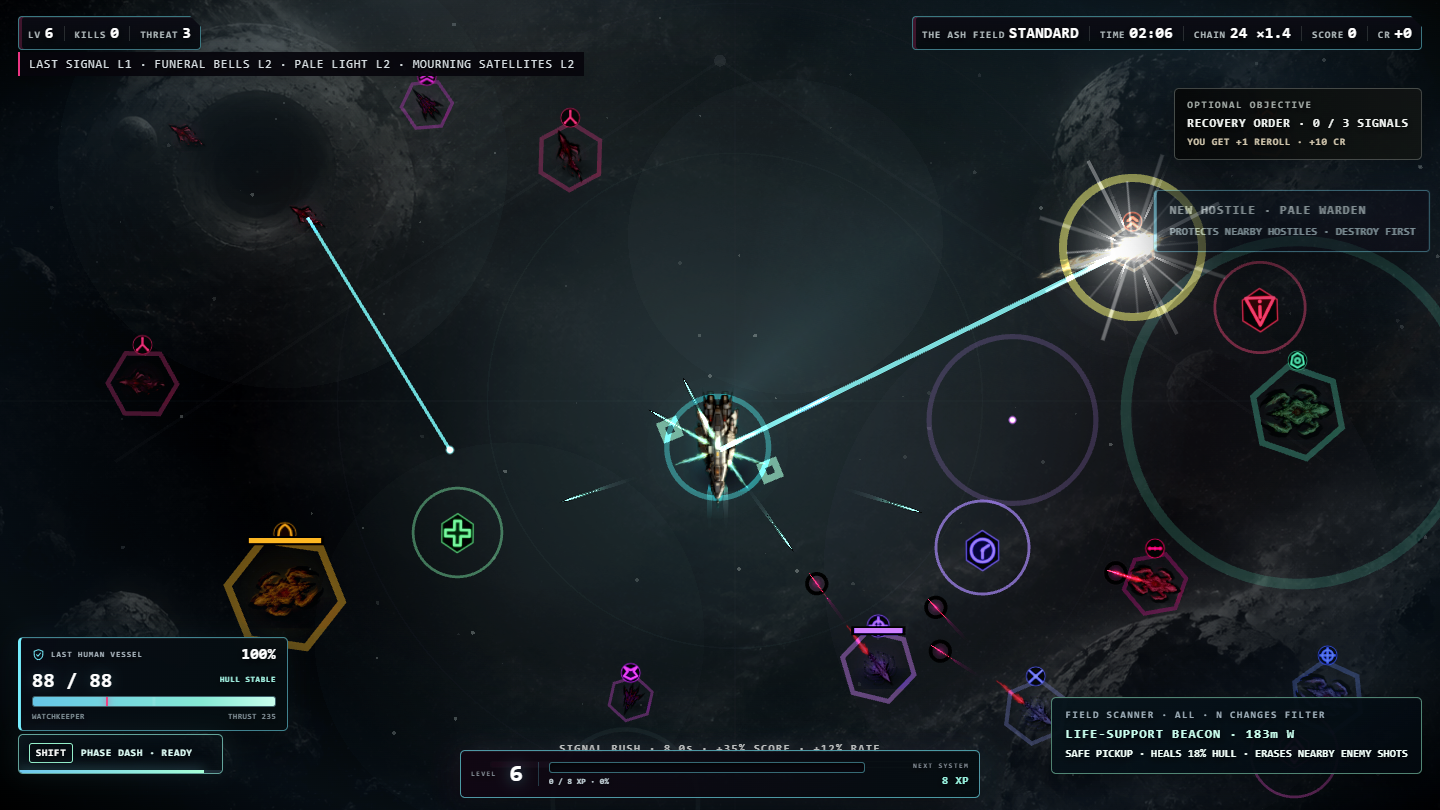
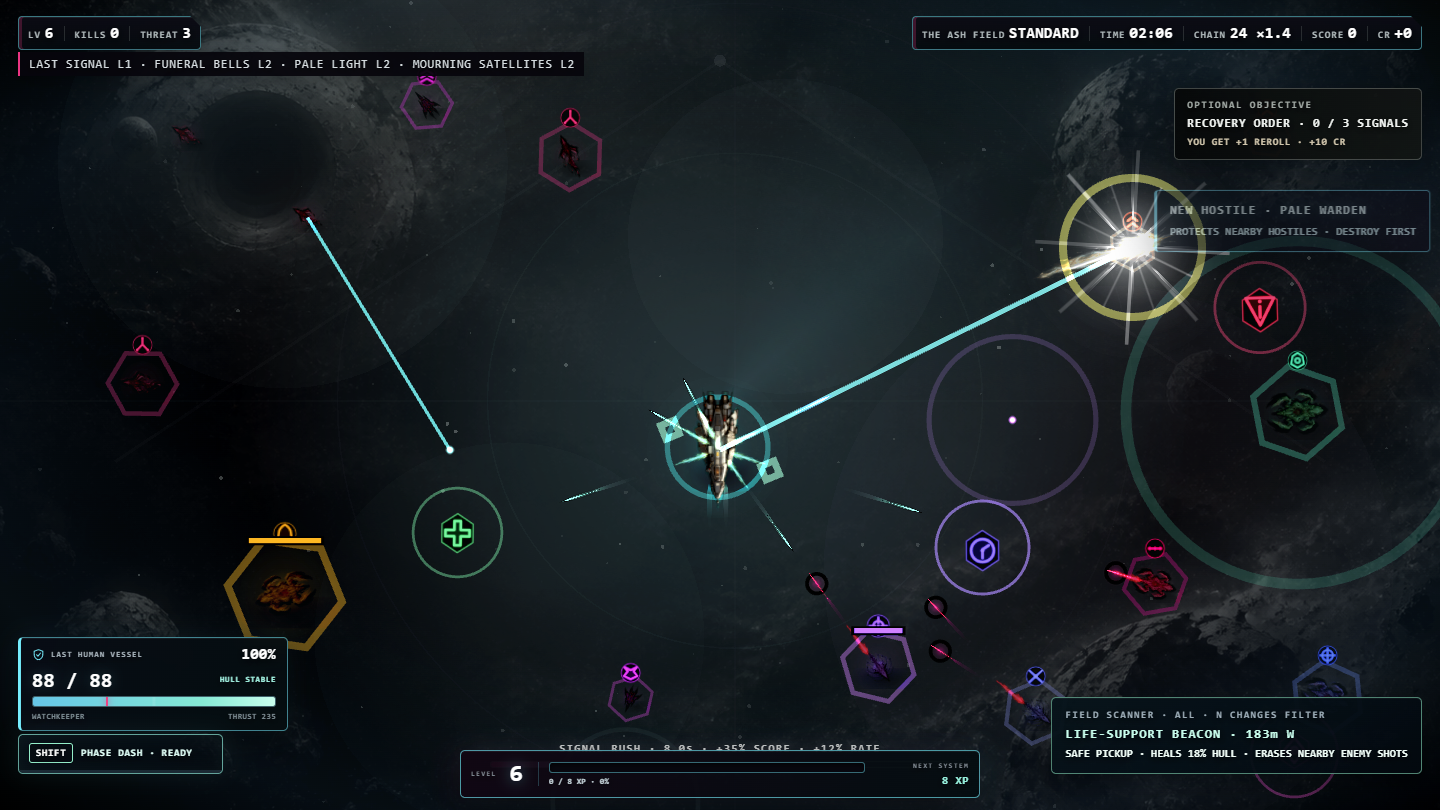
feat: expose auto-target decisions

diff --git a/game.js b/game.js
@@ -811,7 +811,7 @@ function startRun(){
   const frame=SHIPS[save.selected],diff=DIFFICULTIES[save.difficulty]||DIFFICULTIES.STANDARD,contract=CONTRACTS[save.contract]||CONTRACTS.NONE,sector=SECTORS[save.sector]||SECTORS.AURORA,now=performance.now(),mastery=masteryLevel(save.selected),directiveId=selectFieldDirective();
   const p={x:W/2,y:H/2,r:10,baseSpeed:frame.speed,speed:frame.speed,baseHp:frame.hp,maxHp:frame.hp,hp:frame.hp,frame:save.selected,baseArmor:frame.armor,moduleArmor:0,baseDamageMul:frame.damage,damageMul:frame.damage,baseCooldownMul:1/frame.fire,cooldownMul:1/frame.fire,projectileMul:1,baseCrit:frame.crit,crit:frame.crit,critDamageBonus:0,magnet:78,baseMagnet:78,convertChance:0,allyCap:0,allyLifeMul:1,allyDamageMul:1,allyFireMul:1,allyExplosion:0,areaMul:1,specialMul:1,extraProjectiles:0,hitFlash:0,iFrames:0,incomingMul:1,scoreMul:1,creditMul:1,cacheLuck:0,grazeRadius:13,blackBox:false,grazeOverclock:false,deadReckoning:false,weaponMul:{},iffDoctrine:1,overdriveDurationMul:1,brink:false,trait:frame.trait,reactiveCooldown:0,droneBonus:0,moving:false,dashCooldown:0,dashFx:0,dashFromX:W/2,dashFromY:H/2,dashToX:W/2,dashToY:H/2,weaponKick:0,weaponAngle:-Math.PI/2,_lastMoveX:0,_lastMoveY:-1};
   applyResearchToPlayer(p);p.baseSpeed*=1.06*(contract.playerSpeed||1);p.speed=p.baseSpeed;p.baseHp*=contract.hull||1;p.baseHp*=sector.hull||1;p.maxHp=p.baseHp;p.hp=p.maxHp;p.baseCrit+=contract.crit||0;p.crit=p.baseCrit;p.cacheLuck+=(contract.cacheLuck||0)+(sector.cacheLuck||0);p.grazeRadius+=sector.graze||0;p.scoreMul*=sector.score||1;if(save.selected==='bulwark'){p.droneBonus=1;p.allyCap+=1}if(save.selected==='oracle')p.iffDoctrine*=1.25;
-  state={mode:'run',diff,contract,sector,sectorId:save.sector,contractId:save.contract,difficulty:save.difficulty,time:0,last:now,paused:false,choosing:false,choiceMode:'',ceremony:false,ceremonyQueue:[],enemyIntelQueue:[],enemyIntelShown:0,nextEnemyIntel:18,gameOver:false,victory:false,clearedBase:false,endless:false,ascension:0,nextEndlessBoss:0,revived:false,finalizing:false,worldX:0,worldY:0,distanceTraveled:0,generatedCells:new Set(),worldSites:[],worldNodes:[],signalFilter:'ALL',directiveId,directiveComplete:false,explorationFinds:0,archiveFragments:0,archiveOpen:false,archiveXpPending:0,hazardFinds:0,fieldBoostUntil:0,interferenceUntil:0,runCredits:0,kills:0,score:0,spawnT:0,eliteT:36,bossStage:0,level:1,xp:0,xpNeed:8,rerolls:1+(save.research.reroll||0)+(mastery>=4?1:0),skips:1+(mastery>=2?1:0),currentOffers:[],pinnedOfferKey:'',upgradeHistory:[],runCounted:false,accountedKills:0,accountedCredits:0,accountedMastery:0,accountedEndlessTime:0,accountedStats:{damageDealt:0,damageTaken:0,bossesKilled:0,grazes:0,time:0,cachesOpened:0,reliquariesOpened:0,distanceTraveled:0},masteryStartLevel:mastery,clearCounted:false,threat:1,chain:0,chainBest:0,chainTimer:0,rush:0,rushActivations:0,rushKills:0,rushBest:0,salvageSweep:0,nextBounty:65,bounty:null,nextAnomaly:115,nextSecret:(145+Math.random()*45)/(sector.secret||1),nextNemesis:350,nemesisKilled:0,redline:false,overdrive:0,driveTier:0,grazeChain:0,grazeBest:0,grazeTimer:0,grazes:0,cachesOpened:0,conversions:0,evolutions:0,doctrines:{},doctrinePicks:0,pendingLevelAfterDoctrine:false,damageDealt:0,damageTaken:0,bossesKilled:0,flawlessBosses:0,secretEvents:0,weaponDamage:{},noHit:true,newUnlocks:[],protocols:{},artifacts:{},synergies:{},hitStop:0,critFxCooldown:0,surgeUntil:0,p,passives:{},weapons:{},enemies:[],bullets:[],enemyBullets:[],orbs:[],caches:[],mines:[],rifts:[],allies:[],particles:[],floaters:[],deathFx:[],impactFx:[],weaponFx:[],arcs:[],beams:[],shake:0,stars:Array.from({length:110},()=>({x:Math.random()*W,y:Math.random()*H,z:1+Math.random()*2,phase:Math.random()*Math.PI*2}))};
+  state={mode:'run',diff,contract,sector,sectorId:save.sector,contractId:save.contract,difficulty:save.difficulty,time:0,last:now,paused:false,choosing:false,choiceMode:'',ceremony:false,ceremonyQueue:[],enemyIntelQueue:[],enemyIntelShown:0,nextEnemyIntel:18,gameOver:false,victory:false,clearedBase:false,endless:false,ascension:0,nextEndlessBoss:0,revived:false,finalizing:false,worldX:0,worldY:0,distanceTraveled:0,generatedCells:new Set(),worldSites:[],worldNodes:[],signalFilter:'ALL',directiveId,directiveComplete:false,explorationFinds:0,archiveFragments:0,archiveOpen:false,archiveXpPending:0,hazardFinds:0,fieldBoostUntil:0,interferenceUntil:0,runCredits:0,kills:0,score:0,spawnT:0,eliteT:36,bossStage:0,level:1,xp:0,xpNeed:8,rerolls:1+(save.research.reroll||0)+(mastery>=4?1:0),skips:1+(mastery>=2?1:0),currentOffers:[],pinnedOfferKey:'',upgradeHistory:[],runCounted:false,accountedKills:0,accountedCredits:0,accountedMastery:0,accountedEndlessTime:0,accountedStats:{damageDealt:0,damageTaken:0,bossesKilled:0,grazes:0,time:0,cachesOpened:0,reliquariesOpened:0,distanceTraveled:0},masteryStartLevel:mastery,clearCounted:false,threat:1,chain:0,chainBest:0,chainTimer:0,rush:0,rushActivations:0,rushKills:0,rushBest:0,salvageSweep:0,nextBounty:65,bounty:null,nextAnomaly:115,nextSecret:(145+Math.random()*45)/(sector.secret||1),nextNemesis:350,nemesisKilled:0,redline:false,overdrive:0,driveTier:0,grazeChain:0,grazeBest:0,grazeTimer:0,grazes:0,cachesOpened:0,conversions:0,evolutions:0,doctrines:{},doctrinePicks:0,pendingLevelAfterDoctrine:false,damageDealt:0,damageTaken:0,bossesKilled:0,flawlessBosses:0,secretEvents:0,weaponDamage:{},noHit:true,newUnlocks:[],protocols:{},artifacts:{},synergies:{},hitStop:0,critFxCooldown:0,surgeUntil:0,lockedTarget:null,targetLockPulse:0,p,passives:{},weapons:{},enemies:[],bullets:[],enemyBullets:[],orbs:[],caches:[],mines:[],rifts:[],allies:[],particles:[],floaters:[],deathFx:[],impactFx:[],weaponFx:[],arcs:[],beams:[],shake:0,stars:Array.from({length:110},()=>({x:Math.random()*W,y:Math.random()*H,z:1+Math.random()*2,phase:Math.random()*Math.PI*2}))};
   state.reliquaryOpen=false;state.reliquariesOpened=0;state.timeFractureRemaining=0;state.timeFractures=0;state.fractureKills=0;state.fractureWasActive=false;state.preBossWarningStage=-1;
   if(frame.startPassive){state.passives[frame.startPassive]=1;PASSIVES[frame.startPassive].apply(1)}
   addWeapon(frame.weapon);checkSynergies();updateWorldGeneration();AUDIO.ensure();AUDIO.resetMusic();AUDIO.sfx('start');hideAll();wrap.classList.remove('danger');hud.classList.remove('hidden');message(`ORBIT//04 · LAST HUMAN VESSEL\n${frame.name} · ${sector.name} · ${diff.name}${save.contract!=='NONE'?` · ${contract.name}`:''}`,1250);if(save.settings.audio!=='ON')toast('AUDIO MUTED','Press M or enable AUDIO in Settings.');if(!save.briefingSeen&&!TEST_MODE)openPilotBriefing();else if(save.settings.hints==='ON'&&!TEST_MODE){const run=state;setTimeout(()=>{if(state===run&&!run.gameOver)toast('PILOT ASSIST','WASD / MOUSE — move · SHIFT — Phase Dash · N — signal filter')},1450)}checkMetaAchievements();
@@ -863,7 +863,8 @@ function weaponFlak(w,dt){w.timer-=dt;if(w.timer>0)return;const target=nearest(s
 function bladePositions(w){const n=2+(w.level>=2?1:0)+(w.level>=6?1:0)+(w.evolved?2:0)+(state.synergies.razorWing?1:0),r=(43*(w.level>=5?1.18:1)*(w.evolved?1.18:1))*state.p.areaMul,out=[];for(let i=0;i<n;i++){const a=state.time*(w.evolved?3.0:2.15)+(i/n)*Math.PI*2;out.push({x:state.p.x+Math.cos(a)*r,y:state.p.y+Math.sin(a)*r})}return out}
 function weaponBlade(w,dt){w.timer-=dt;if(w.timer>0)return;w.timer=.16*(w.level>=4?.86:1)*(w.evolved?.72:1)*state.p.cooldownMul;const damage=13*(1+(w.level-1)*.19)*(w.evolved?1.45:1)*state.p.damageMul*weaponPower('blade',w)*(state.p.frame==='halo'&&state.p.moving?1.28:1);for(const b of bladePositions(w))for(const e of state.enemies)if(!e.dead&&dist2(b,e)<(e.r+7)*(e.r+7))damageEnemy(e,damage,false,'blade')}
 function weaponRift(w,dt){w.timer-=dt;if(w.timer>0)return;const target=nearest(state.p);if(!target)return;const l=w.level,e=w.evolved;w.timer=2.25*(l>=4?.86:1)*(e?.72:1)*state.p.cooldownMul/(state.p.specialMul||1);const radius=68*(l>=2?1.18:1)*(e?1.35:1)*state.p.areaMul*(state.p.frame==='event'?1.22:1),duration=2.7*(l>=5?1.25:1)*(e?1.35:1),damage=14*(1+(l-1)*.18)*(e?1.45:1)*state.p.damageMul*weaponPower('rift',w),color=e?'#ffffff':'#a879ff';state.rifts.push({x:target.x,y:target.y,r:radius,life:duration,maxLife:duration,tick:0,damage,pull:(36+l*5)*(e?1.35:1)*(state.p.frame==='event'?1.25:1)});AUDIO.sfx('rift',0,target);emitImpactFx(target.x,target.y,1,0,'rift',color,false,radius*.55);state.arcs.push({circle:true,x1:target.x,y1:target.y,r:radius,life:.16,color})}
-function updateWeapons(dt){const tier=state.driveTier||0,drive=[1,1.18,1.35,1.55,1.80][tier]||1,surge=state.time<state.surgeUntil?1.25:1,rush=state.rush>0?1.12:1,reckon=state.p.deadReckoning&&state.p.hp/state.p.maxHp<=.25?1.35:1;const brink=state.p.brink&&state.p.hp/state.p.maxHp<=.50?1.28:1;const map={pulse:weaponPulse,missile:weaponMissile,drone:weaponDrone,arc:weaponArc,rail:weaponRail,nova:weaponNova,mine:weaponMine,beam:weaponBeam,flak:weaponFlak,blade:weaponBlade,rift:weaponRift};for(const [id,w] of Object.entries(state.weapons))map[id]?.(w,dt*drive*surge*rush*reckon*brink)}
+function updateTargetLock(){const target=nearest(state.p);if(target!==state.lockedTarget){state.lockedTarget=target;state.targetLockPulse=target?0.30:0}return target}
+function updateWeapons(dt){updateTargetLock();const tier=state.driveTier||0,drive=[1,1.18,1.35,1.55,1.80][tier]||1,surge=state.time<state.surgeUntil?1.25:1,rush=state.rush>0?1.12:1,reckon=state.p.deadReckoning&&state.p.hp/state.p.maxHp<=.25?1.35:1;const brink=state.p.brink&&state.p.hp/state.p.maxHp<=.50?1.28:1;const map={pulse:weaponPulse,missile:weaponMissile,drone:weaponDrone,arc:weaponArc,rail:weaponRail,nova:weaponNova,mine:weaponMine,beam:weaponBeam,flak:weaponFlak,blade:weaponBlade,rift:weaponRift};for(const [id,w] of Object.entries(state.weapons))map[id]?.(w,dt*drive*surge*rush*reckon*brink)}
 
 function convertEnemy(e){if(e.dead)return;AUDIO.sfx('convert');if(state.bounty?.enemy===e)state.bounty=null;e.dead=true;state.conversions++;save.stats.conversions++;const iff=state.passives.iff||0,life=(14+iff*3)*state.p.allyLifeMul,baseFire=e.type==='sniper'?1.05:e.type==='tank'?.95:e.type==='charger'?.48:e.type==='splitter'?.58:.68;state.allies.push({x:e.x,y:e.y,type:e.type,elite:e.elite,r:Math.max(7,e.r*.7),life,fireT:.12+Math.random()*.25,baseFire,damageMul:e.elite?1.8:1,expired:false});particle(e.x,e.y,'#8dffd6',e.elite?20:12);state.arcs.push({circle:true,x1:e.x,y1:e.y,r:e.elite?34:22,life:.14,color:'#8dffd6'});message(`IFF OVERRIDE\n${e.elite?'ELITE ':''}${ENEMY_META[e.type]?.name||'ALLY'} ACQUIRED`,620);state.score+=30*state.diff.score*(state.contract?.score||1);unlockAchievement('iff_friend')}
 function damageEnemy(e,damage,conversionEligible=true,weaponId='unknown',canCrit=true){if(e.dead)return;const iff=state.passives.iff||0,eliteEligible=e.elite&&!e.boss&&iff>=6,conversionOk=conversionEligible&&!e.boss&&(!e.elite||eliteEligible)&&state.p.convertChance>0&&state.allies.length<state.p.allyCap;if(conversionOk){const baseChance=e.elite?state.p.convertChance*.16:state.p.convertChance,chance=baseChance*(state.sector?.iff||1)*(state.p.iffDoctrine||1);if(Math.random()<chance){convertEnemy(e);return}}const roll=canCrit?criticalRoll(damage):{damage,crit:false};let finalDamage=roll.damage;if(state.p.frame==='wraith'&&e.hp/e.maxHp<=.35)finalDamage*=1.20;if(state.p.frame==='talon'&&dist2(e,state.p)<=150*150)finalDamage*=1.22;const guarded=e.type!=='warden'&&state.enemies.some(x=>!x.dead&&x.type==='warden'&&dist2(x,e)<118*118);if(guarded)finalDamage*=.70;const actual=Math.max(0,Math.min(e.hp,finalDamage));e.hp-=finalDamage;e.hit=.07;state.damageDealt+=actual;state.weaponDamage[weaponId]=(state.weaponDamage[weaponId]||0)+actual;damageNumber(e.x,e.y,actual,roll.crit);particle(e.x,e.y,roll.crit?'#ffffff':'#d8fbff',roll.crit?4:2);if(roll.crit)critFeedback(e,weaponId,finalDamage);if(e.hp<=0)killEnemy(e)}
@@ -944,7 +945,7 @@ function update(dt){
   if(!state||state.mode!=='run'||state.paused)return;
   if(state.hitStop>0){state.hitStop=Math.max(0,state.hitStop-dt);return}
   const realDt=dt,fractureWas=state.timeFractureRemaining>0;state.timeFractureRemaining=Math.max(0,(state.timeFractureRemaining||0)-realDt);const fractureActive=state.timeFractureRemaining>0;dt=realDt*(fractureActive?.28:1);wrap.classList.toggle('timeFracture',fractureActive);if(fractureWas&&!fractureActive){AUDIO.sfx('phase');rewardCue('TIME RESTORED',`${state.fractureKills} HOSTILES CAUGHT IN THE FRACTURE`,1,1200)}state.fractureWasActive=fractureActive;
-  state.time+=dt;state.shake=Math.max(0,state.shake-dt*18);state.critFxCooldown=Math.max(0,state.critFxCooldown-dt);state.upgradePulse=Math.max(0,(state.upgradePulse||0)-dt);state.salvageSweep=Math.max(0,(state.salvageSweep||0)-dt);const p=state.p;state.overdrive=Math.max(0,state.overdrive-dt);const rushWas=state.rush>0;state.rush=Math.max(0,state.rush-dt);if(rushWas&&state.rush<=0){state.rushBest=Math.max(state.rushBest,state.rushKills);AUDIO.sfx('rushEnd');toast('SIGNAL RUSH ENDED',`${state.rushKills} kills sustained`);state.rushKills=0}p.reactiveCooldown=Math.max(0,(p.reactiveCooldown||0)-dt);p.dashCooldown=Math.max(0,(p.dashCooldown||0)-dt);p.dashFx=Math.max(0,(p.dashFx||0)-dt);p.weaponKick=Math.max(0,(p.weaponKick||0)-dt);if(state.overdrive<=0)state.driveTier=0;p.hitFlash=Math.max(0,p.hitFlash-dt);p.iFrames=Math.max(0,p.iFrames-dt);state.chainTimer=Math.max(0,state.chainTimer-dt);if(state.chainTimer<=0)state.chain=0;state.grazeTimer=Math.max(0,state.grazeTimer-dt);if(state.grazeTimer<=0)state.grazeChain=0;
+  state.time+=dt;state.shake=Math.max(0,state.shake-dt*18);state.critFxCooldown=Math.max(0,state.critFxCooldown-dt);state.upgradePulse=Math.max(0,(state.upgradePulse||0)-dt);state.salvageSweep=Math.max(0,(state.salvageSweep||0)-dt);state.targetLockPulse=Math.max(0,(state.targetLockPulse||0)-realDt);const p=state.p;state.overdrive=Math.max(0,state.overdrive-dt);const rushWas=state.rush>0;state.rush=Math.max(0,state.rush-dt);if(rushWas&&state.rush<=0){state.rushBest=Math.max(state.rushBest,state.rushKills);AUDIO.sfx('rushEnd');toast('SIGNAL RUSH ENDED',`${state.rushKills} kills sustained`);state.rushKills=0}p.reactiveCooldown=Math.max(0,(p.reactiveCooldown||0)-dt);p.dashCooldown=Math.max(0,(p.dashCooldown||0)-dt);p.dashFx=Math.max(0,(p.dashFx||0)-dt);p.weaponKick=Math.max(0,(p.weaponKick||0)-dt);if(state.overdrive<=0)state.driveTier=0;p.hitFlash=Math.max(0,p.hitFlash-dt);p.iFrames=Math.max(0,p.iFrames-dt);state.chainTimer=Math.max(0,state.chainTimer-dt);if(state.chainTimer<=0)state.chain=0;state.grazeTimer=Math.max(0,state.grazeTimer-dt);if(state.grazeTimer<=0)state.grazeChain=0;
   const redline=p.hp/p.maxHp<=.30;if(redline&&!state.redline){state.redline=true;AUDIO.sfx('danger');message('REDLINE\nCRIT +8% · SCORE +25%',700)}else if(!redline)state.redline=false;const activeBoss=state.enemies.find(e=>e.boss&&!e.dead);AUDIO.music(state.time,{boss:!!activeBoss,bossStage:state.bossStage,bossPhase:activeBoss?.phase||0,drive:state.driveTier,threat:state.threat,chain:state.chain,redline,rush:state.rush>0,moving:p.moving,fracture:fractureActive,time:state.time});
   const chainMul=1+Math.min(1.6,Math.floor(state.chain/5)*.10),brinkMul=state.p.brink&&p.hp/p.maxHp<=.50?1.35:1,rushMul=state.rush>0?1.25:1;state.score+=dt*(1+state.level*.10)*chainMul*(redline?1.25:1)*brinkMul*rushMul*state.p.scoreMul*state.diff.score*(state.contract?.score||1);updatePressure();updateEnemyIntel();
   const input=moveInput();let dx=input.dx,dy=input.dy;p.moving=!!(dx||dy);if(dx||dy){const l=Math.hypot(dx,dy),nx=dx/l,ny=dy/l,driveSpeed=[1,1.08,1.12,1.16,1.20][state.driveTier]||1,interference=state.interferenceUntil>state.time?.72:1,step=p.speed*driveSpeed*interference*realDt;p._lastMoveX=nx;p._lastMoveY=ny;p.x+=nx*step;p.y+=ny*step;state.distanceTraveled+=step}followWorldCamera();updateWorldGeneration();checkFieldDirective();

diff --git a/visual-engine.js b/visual-engine.js
@@ -190,7 +190,7 @@
       for(let i=0;i<this.dashEchoes.length;i++){const echo=this.dashEchoes[i],trail=(i+1)/(this.dashEchoes.length+1),fade=1-trail;if(dashActive){const eased=trail*trail*(3-2*trail);echo.setVisible(true).setPosition(p.x+(p.dashFromX-p.x)*eased,p.y+(p.dashFromY-p.y)*eased).setRotation(pm.angle+Math.PI/2).setAlpha(dashPower*fade*.24).setTint(i%2?0xb9c4be:0xd5d9d6);this.fitSprite(echo,66*(.92+fade*.10))}else echo.setVisible(false)}
       const shake=(gameState.shake||0)*this.motionScale;this.shakePhase+=delta*(20+shake*1.4);const shakeEnvelope=shake*clamp(shake/8,.25,1);this.root.setPosition(Math.sin(this.shakePhase*1.07)*shakeEnvelope*.34,Math.cos(this.shakePhase*1.43)*shakeEnvelope*.27);this.fx.setPosition(this.root.x*this.scale,this.root.y*this.scale);this.dangerFx.setPosition(this.root.x*this.scale,this.root.y*this.scale);
       this.drawWorldSites(gameState,quality);this.syncEnemies(gameState,settings);this.syncAllies(gameState);this.syncProjectiles(gameState,clarity);
-      this.syncLoot(gameState);this.syncOrbitals(gameState);this.syncParticles(gameState,particlesOn,clarity);this.syncFloaters(gameState);this.drawEnergyEffects(gameState,settings,quality,glowOn);this.syncDeathFx(gameState,quality,glowOn);this.drawDangerReadability(gameState,settings);
+      this.syncLoot(gameState);this.syncOrbitals(gameState);this.syncParticles(gameState,particlesOn,clarity);this.syncFloaters(gameState);this.drawEnergyEffects(gameState,settings,quality,glowOn);this.drawTargetLock(gameState,settings);this.syncDeathFx(gameState,quality,glowOn);this.drawDangerReadability(gameState,settings);
     }
 
     hideCombatPools(){for(const pool of [this.enemies,this.allies,this.friendlyBullets,this.hostileBullets,this.loot,this.particles,this.floaters,this.drones,this.blades,this.mines])this.use(pool,0,()=>{})}
@@ -239,6 +239,9 @@
       const source=on?s.particles:[],stride=clarity==='HIGH'?2:1,count=Math.ceil(source.length/stride),alpha=clarity==='HIGH'?.42:clarity==='BALANCED'?.55:.66;this.use(this.particles,count,(v,i)=>{const q=source[i*stride],life=clamp((q.life||0)*2),speed=Math.hypot(q.vx||0,q.vy||0),length=5+life*5+Math.min(8,speed*.035),width=3+life*4;v.root.setPosition(q.x,q.y).setRotation(speed>2?Math.atan2(q.vy,q.vx):0).setDisplaySize(length,width).setTint(tintValue(q.color)).setAlpha(life*alpha)});
     }
     syncFloaters(s){const source=s.floaters||[];this.use(this.floaters,source.length,(v,i)=>{const f=source[i],life=clamp(f.life/f.maxLife),arrival=clamp((1-life)*5),scale=f.crit?(1.32-.20*easeOutCubic(arrival)):(.82+.18*easeOutBack(arrival));v.root.setPosition(f.x,f.y-3*easeOutCubic(arrival)).setText(f.text).setColor(f.color).setFontSize(f.crit?14:10).setScale(scale).setAlpha(Math.min(1,life*2.4,arrival*2.5))})}
+    drawTargetLock(s,settings){
+      const e=s.lockedTarget,index=s.enemies?.indexOf(e)??-1,body=this.enemies?.items?.[index]?.root,x=body?.x??e?.x,y=body?.y??e?.y;if(!e||e.dead||x<18||x>this.width-18||y<72||y>this.height-34)return;const acquire=clamp((s.targetLockPulse||0)/.30),pulse=.5+.5*Math.sin(this.time*5.5),radius=Math.max(19,e.r*1.62)*(1+acquire*.24),color=e.boss?0xff4e9d:e.elite||e.nemesis||e.bounty?0xffd27a:0x8de9ff,clarity=settings.effectClarity==='HIGH'?1:settings.effectClarity==='BALANCED'?.78:.58;this.fx.lineStyle(5,0x020307,.38*clarity).strokeCircle(x,y,radius);this.fx.lineStyle(1.25,color,(.30+.22*pulse+.28*acquire)*clarity).strokeCircle(x,y,radius);for(let i=0;i<4;i++){const a=this.time*.46+i*Math.PI/2,c=Math.cos(a),sn=Math.sin(a);this.strokeFxLine(x+c*(radius-4),y+sn*(radius-4),x+c*(radius+6+acquire*4),y+sn*(radius+6+acquire*4),color,(.48+.28*acquire)*clarity,1.5)}
+    }
     drawEnergyEffects(s,settings,quality,glowOn){
       const line=(x1,y1,x2,y2,color,alpha,width)=>this.strokeFxLine(x1,y1,x2,y2,color,alpha,width);
       const p=s.p,playerColor=p.hp/p.maxHp<.30?0xff6177:0xb7c4bd;

diff --git a/tests/smoke.js b/tests/smoke.js
@@ -77,6 +77,7 @@ vm.runInContext(`
   collectWorldNode({type:'jammer',x:state.p.x,y:state.p.y,color:'#ff6177',disposition:'hazard',collected:false}); if(state.interferenceUntil<=state.time||state.hazardFinds!==1) throw new Error('world hazard failed');const directivesBefore=save.stats.directivesCompleted,rerollsBeforeDirective=state.rerolls;if(!checkFieldDirective()||!state.directiveComplete||save.stats.directivesCompleted!==directivesBefore+1||state.rerolls!==rerollsBeforeDirective+1) throw new Error('field directive completion failed');updateDirectiveHud();if(!document.getElementById('directiveTracker').classList.contains('hidden')||!document.getElementById('rewardRibbonTitle').textContent.includes('FIELD DIRECTIVE')) throw new Error('field directive completion feedback failed');
   const fracturesBefore=save.stats.timeFractures;collectWorldNode({type:'fracture',x:state.p.x,y:state.p.y,color:'#8e7dff',disposition:'rare',collected:false});if(state.timeFractureRemaining<8.9||state.timeFractures!==1||save.stats.timeFractures!==fracturesBefore+1||state.paused) throw new Error('Time Fracture activation failed');
   state.enemies=[];state.bullets=[];state.interferenceUntil=0;state.p.x=W/2;state.p.y=H/2;const timeBefore=state.time,moveBefore=state.p.x;keys.d=true;update(.1);keys.d=false;if(Math.abs((state.time-timeBefore)-.028)>.003||state.p.x-moveBefore<state.p.speed*.09) throw new Error('Time Fracture did not preserve player thrust while slowing the world');updateHudVisuals();if(document.getElementById('timeFractureHud').classList.contains('hidden')||!document.getElementById('timeFractureTime').textContent.includes('SEC')) throw new Error('Time Fracture HUD feedback failed');
+  state.enemies=[];const lockNear=spawnEnemy('scout',false,{x:state.p.x+70,y:state.p.y}),lockElite=spawnEnemy('tank',true,{x:state.p.x+180,y:state.p.y});lockNear.speed=lockElite.speed=0;save.settings.targetPriority='NEAREST';if(updateTargetLock()!==lockNear||state.lockedTarget!==lockNear||state.targetLockPulse<.29)throw new Error('nearest auto-target lock failed');save.settings.targetPriority='ELITES FIRST';if(updateTargetLock()!==lockElite||state.lockedTarget!==lockElite||state.targetLockPulse<.29)throw new Error('elite-priority auto-target lock failed');lockNear.dead=lockElite.dead=true;if(updateTargetLock()!==null||state.lockedTarget!==null)throw new Error('auto-target lock did not clear');save.settings.targetPriority='NEAREST';state.enemies=[];
   const first=spawnEnemy('scout',false,{x:state.p.x+80,y:state.p.y}),second=spawnEnemy('scout',false,{x:state.p.x+160,y:state.p.y});first.speed=second.speed=0;const testBullet={x:first.x,y:first.y,vx:0,vy:0,r:3,life:2,maxLife:2,damage:5,pierce:1,hitTargets:new Set(),homing:0,blast:0,color:'#fff',weaponId:'rail'};state.bullets=[testBullet];update(.001);const firstAfter=first.hp;testBullet.x=second.x;testBullet.y=second.y;update(.001);if(first.hp!==firstAfter||second.hp>=second.maxHp||testBullet.life>0) throw new Error('piercing projectile did not advance to a new target exactly once');
   codexTab='discoveries';renderCodex();if(document.getElementById('codexContent').children.some(card=>card.innerHTML.includes('ARK ARCHIVE'))) throw new Error('retired quote records remain in the active Codex');
   if(Object.keys(ENGINE_ASSETS.backgrounds).length!==6) throw new Error('dynamic background plates missing');

diff --git a/README.md b/README.md
@@ -83,6 +83,7 @@ The renderer includes:
 - visible maneuvering thrusters and a load-responsive life-support core that keep the ark animated during strafing, acceleration, braking, and idle flight
 - semantic, color-coded pickup silhouettes for experience, caches, repair, combat flux, salvage, Time Fractures, relics, and jammers
 - glance-readable hostile roles: chargers, tanks, gunners, splitters, snipers, flankers, paired-shot weavers, support wardens, dash reapers, three-needle harriers, weaving Grave Moths, and radial-fire Null Anchors use consistent accents, compact intent glyphs, and priority-scaled threat rings
+- a live weapon-lock reticle that mirrors the selected nearest, low-hull, or elite-first auto-target rule and briefly expands whenever the weapon system changes target
 - class-tuned organic locomotion with lateral sway, speed stretch, weapon recoil, turning compression, and short motion wakes instead of static sprites translated across the arena
 - quality-scaled contact shadows and restrained hostile rim lights that ground moving silhouettes and separate their shapes from the environment
 - dark separation rings around hostile projectiles and thicker priority health bars for reliable reads against bright weapons and animated backgrounds
@@ -285,7 +286,7 @@ See [CONTRIBUTING.md](CONTRIBUTING.md) for setup, testing, asset licensing, and 
 
 ## Release status
 
-Version 0.92.0 raises regular encounter pressure while retaining population braking and reduced boss-approach inflow. Grave Moths add fast alternating pursuit lines; Null Anchors hold range and broadcast a readable six-way projectile lattice. Alt+Tab now clears all held input state, safe field signals use the ship's full pickup radius, and the soundtrack rotates through four shorter exploration/combat passages. The level-up screen identifies first acquisitions as `NEW MODULE` or `NEW SYSTEM` and adds an optional Resonance Draw with visible probabilities and an earned-resource cost. Restart and abort actions now use controller-safe in-game confirmation with explicit saved and discarded progress. The run report prioritizes six decision-relevant results and keeps deeper telemetry in an optional section. Phaser remains the simulation, audio, environment, and compatibility host, with Three.js providing the active top-down combat presentation. The release gate now validates logic, assets, desktop gameplay, real audio output, and five critical UI states across three resolutions before packaging. A public Steam release still requires external playtesting, minimum-hardware performance validation, a Steamworks App ID and depot, final store capsules, Steam client installation testing, and Valve approval.
+Version 0.92.0 raises regular encounter pressure while retaining population braking and reduced boss-approach inflow. Grave Moths add fast alternating pursuit lines; Null Anchors hold range and broadcast a readable six-way projectile lattice. A live weapon-lock reticle exposes the current auto-target decision without adding another HUD panel. Alt+Tab now clears all held input state, safe field signals use the ship's full pickup radius, and the soundtrack rotates through four shorter exploration/combat passages. The level-up screen identifies first acquisitions as `NEW MODULE` or `NEW SYSTEM` and adds an optional Resonance Draw with visible probabilities and an earned-resource cost. Restart and abort actions now use controller-safe in-game confirmation with explicit saved and discarded progress. The run report prioritizes six decision-relevant results and keeps deeper telemetry in an optional section. Phaser remains the simulation, audio, environment, and compatibility host, with Three.js providing the active top-down combat presentation. The release gate now validates logic, assets, desktop gameplay, real audio output, and five critical UI states across three resolutions before packaging. A public Steam release still requires external playtesting, minimum-hardware performance validation, a Steamworks App ID and depot, final store capsules, Steam client installation testing, and Valve approval.
 
 ## License
 
